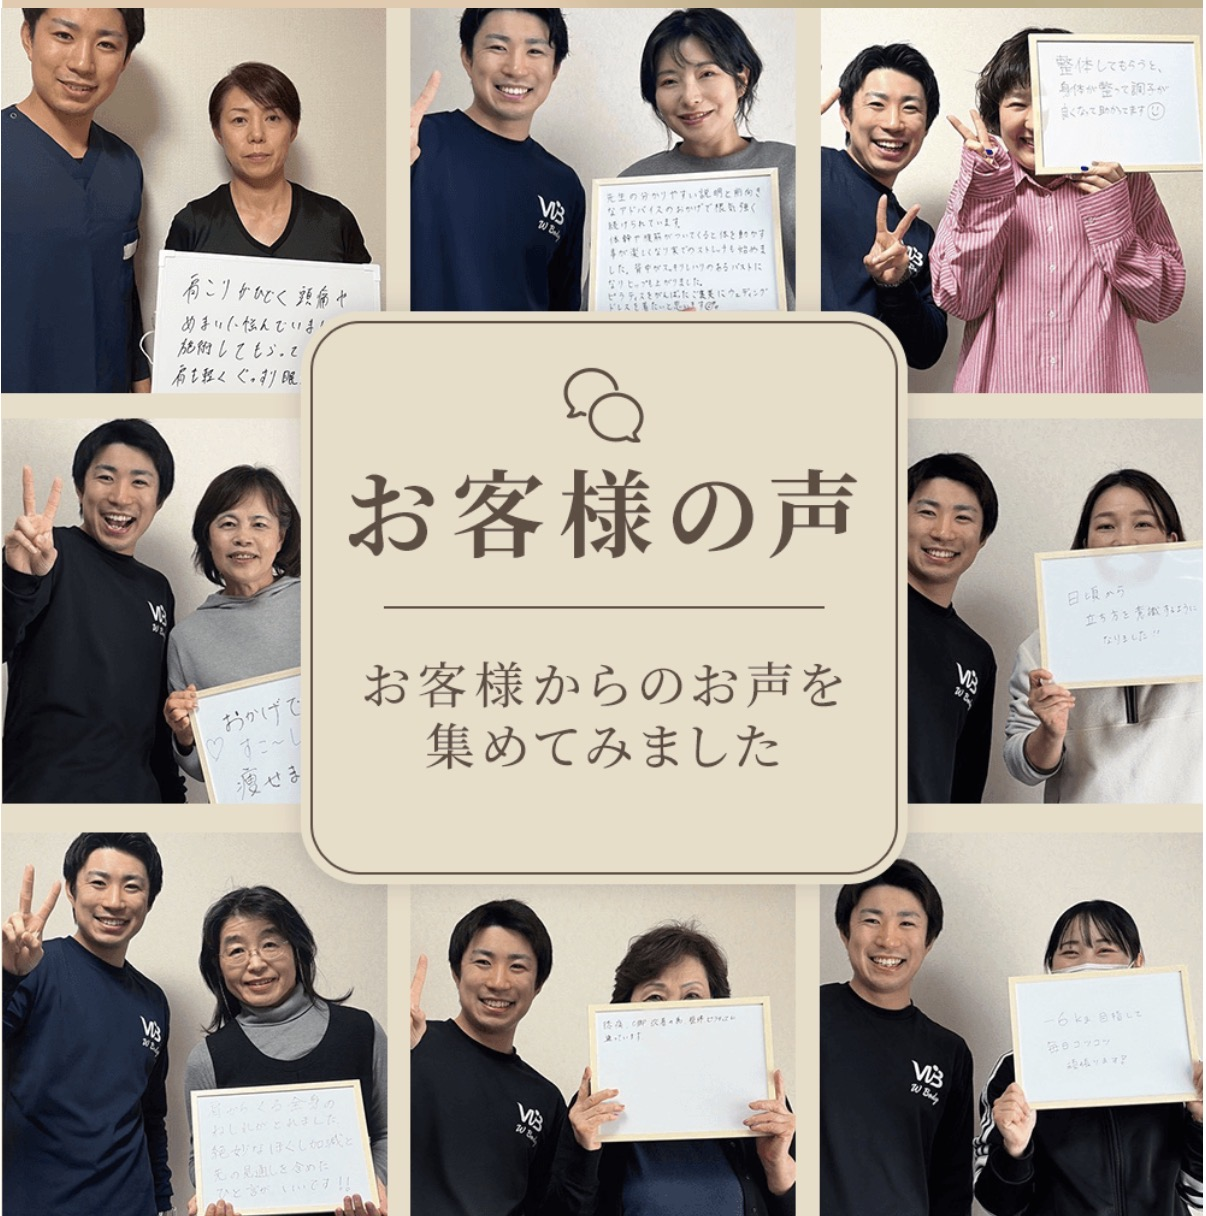
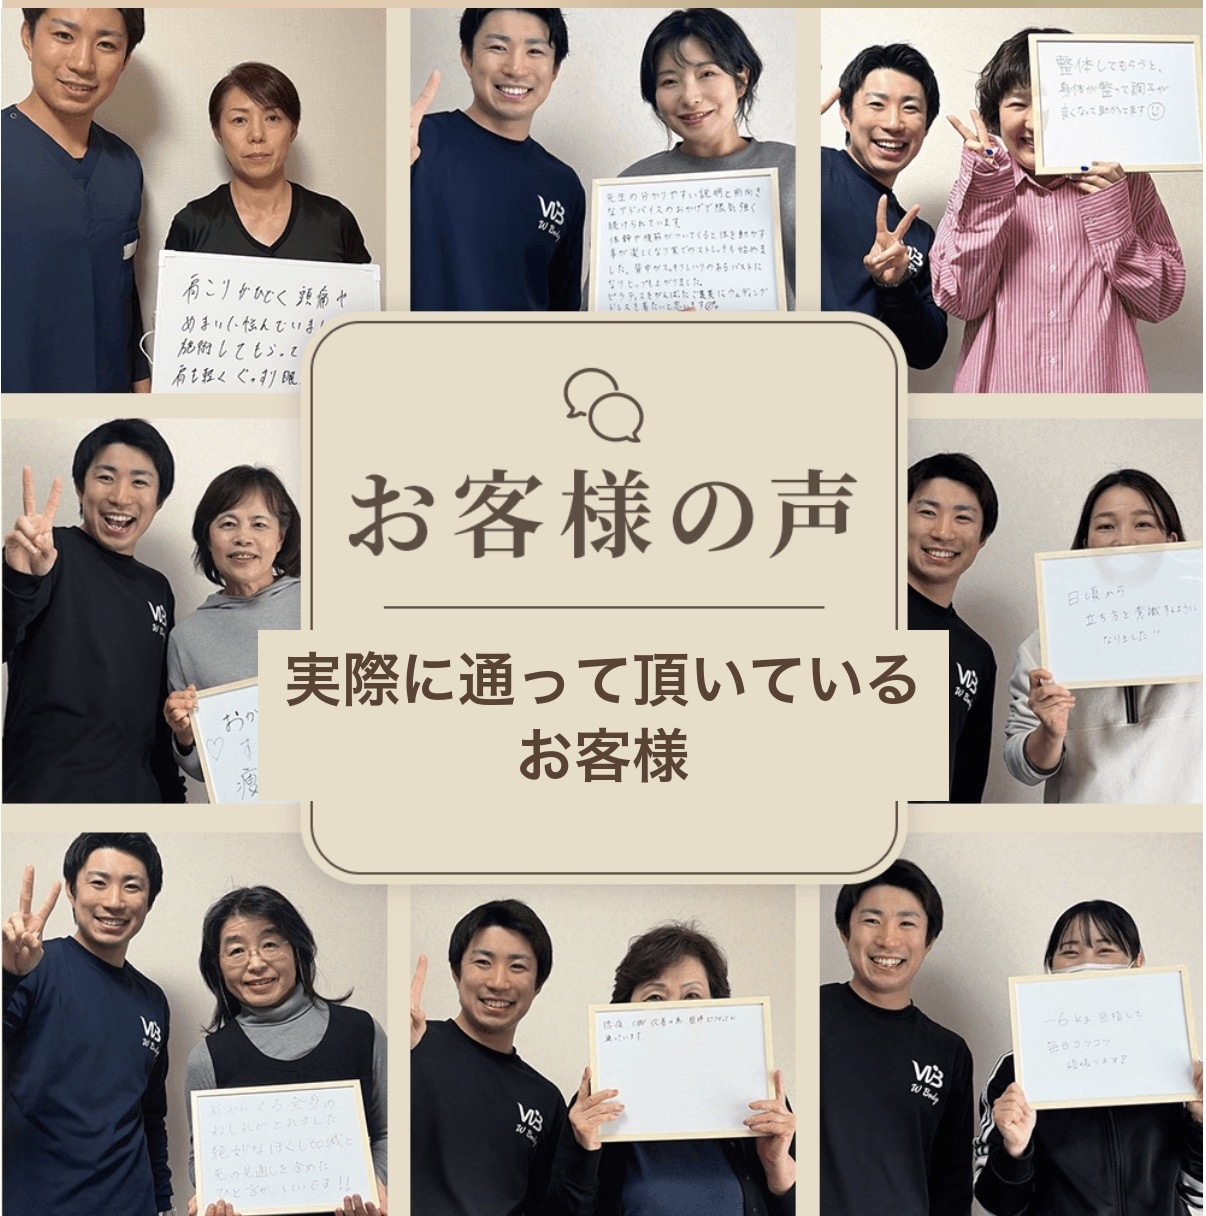
お客様の声バナー画像のサブテキストを書き換え

Changed region(s): [[0.2148, 0.5, 0.7977, 0.6562]]

diff --git a/index.html b/index.html
@@ -411,41 +411,13 @@ a.btn-main, a.btn-sub, a.btn-outline, .sticky-cta a, .faq-q {
 }
 
 /* ─── 口コミバナー ─── */
-.review-banner-wrap {
-  position: relative;
-  margin-bottom: 14px;
-  border-radius: 14px;
-  overflow: hidden;
-  box-shadow: 0 12px 28px rgba(168,110,96,.18);
-}
 .review-banner {
   width: 100%;
+  border-radius: 14px;
+  margin-bottom: 14px;
+  box-shadow: 0 12px 28px rgba(168,110,96,.18);
   display: block;
   height: auto;
-}
-.review-banner-overlay {
-  position: absolute;
-  top: 14px; left: 50%;
-  transform: translateX(-50%);
-  background: linear-gradient(135deg, rgba(201,154,134,.96), rgba(168,110,96,.96));
-  color: #fff;
-  padding: 8px 22px;
-  border-radius: 24px;
-  font-family: 'Noto Serif JP', serif;
-  font-weight: 600;
-  font-size: clamp(12px, 3.2vw, 14px);
-  letter-spacing: .05em;
-  white-space: nowrap;
-  box-shadow: 0 6px 18px rgba(85,49,57,.4), inset 0 1px 0 rgba(255,255,255,.2);
-  border: 1px solid rgba(255,255,255,.35);
-  text-shadow: 0 1px 3px rgba(85,49,57,.45);
-  z-index: 2;
-}
-.review-banner-overlay::before {
-  content: '❤';
-  margin-right: 6px;
-  color: #ffdce0;
-  font-size: 11px;
 }
 
 /* ─── 口コミ ─── */
@@ -1417,10 +1389,7 @@ body { padding-bottom: 76px; }
 <!-- 口コミ -->
 <div class="p-4 reveal">
   <h2 class="section-title"><small>VOICE</small>お客様の声</h2>
-  <div class="review-banner-wrap">
-    <div class="review-banner-overlay">実際に通って頂いているお客様</div>
-    <img src="images/reviews_banner.jpg" alt="お客様の声" class="review-banner" loading="lazy">
-  </div>
+  <img src="images/reviews_banner.jpg" alt="お客様の声" class="review-banner" loading="lazy">
 
   <div class="review-card">
     <div class="review-header">
